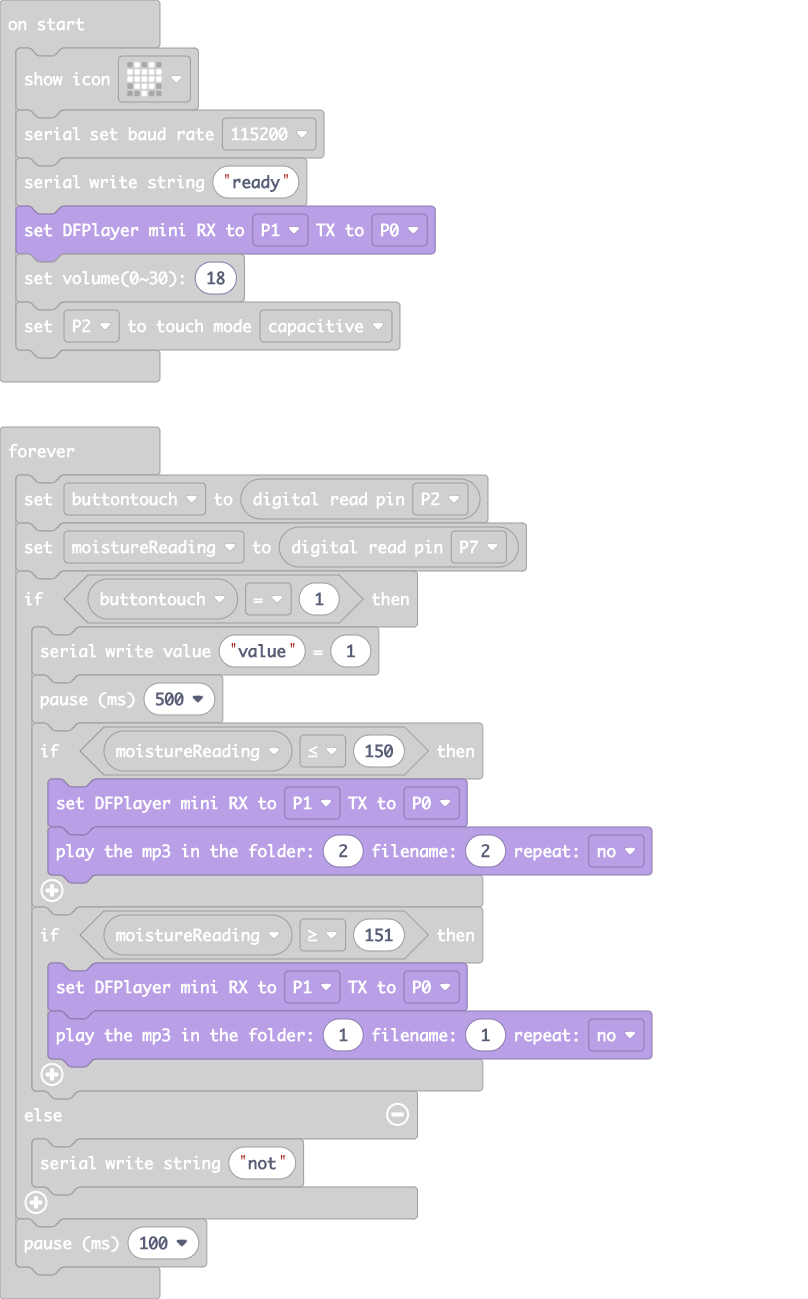
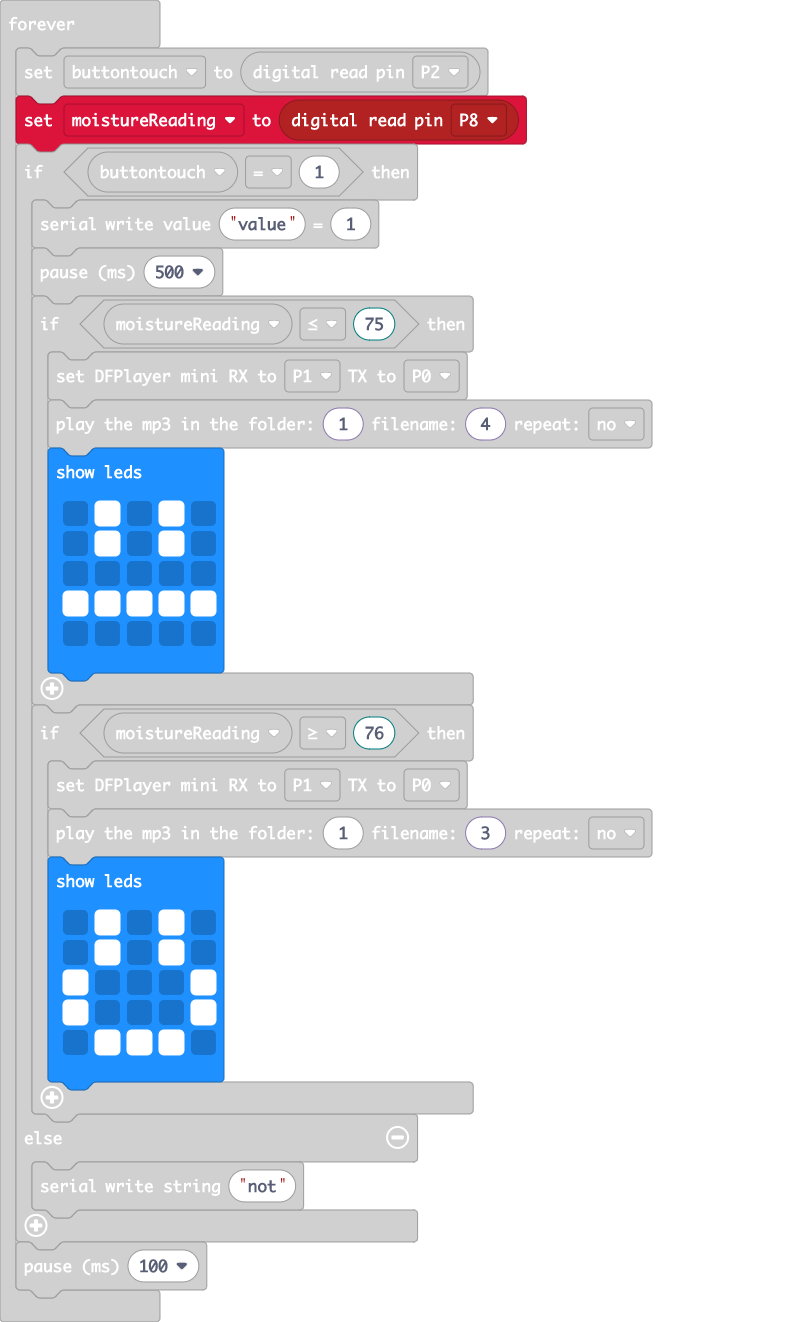
Update main.blocks, main.ts

diff --git a/main.ts b/main.ts
@@ -8,17 +8,31 @@ dfplayer.setVolume(18)
 pins.touchSetMode(TouchTarget.P2, TouchTargetMode.Capacitive)
 basic.forever(function () {
     buttontouch = pins.digitalReadPin(DigitalPin.P2)
-    moistureReading = pins.digitalReadPin(DigitalPin.P7)
+    moistureReading = pins.digitalReadPin(DigitalPin.P8)
     if (buttontouch == 1) {
         serial.writeValue("value", 1)
         basic.pause(500)
-        if (moistureReading <= 150) {
+        if (moistureReading <= 75) {
             dfplayer.MP3_setSerial(SerialPin.P1, SerialPin.P0)
-            dfplayer.folderPlay(2, 2, dfplayer.yesOrNot.type1)
+            dfplayer.folderPlay(1, 4, dfplayer.yesOrNot.type1)
+            basic.showLeds(`
+                . # . # .
+                . # . # .
+                . . . . .
+                # # # # #
+                . . . . .
+                `)
         }
-        if (moistureReading >= 151) {
+        if (moistureReading >= 76) {
             dfplayer.MP3_setSerial(SerialPin.P1, SerialPin.P0)
-            dfplayer.folderPlay(1, 1, dfplayer.yesOrNot.type1)
+            dfplayer.folderPlay(1, 3, dfplayer.yesOrNot.type1)
+            basic.showLeds(`
+                . # . # .
+                . # . # .
+                # . . . #
+                # . . . #
+                . # # # .
+                `)
         }
     } else {
         serial.writeString("not")
